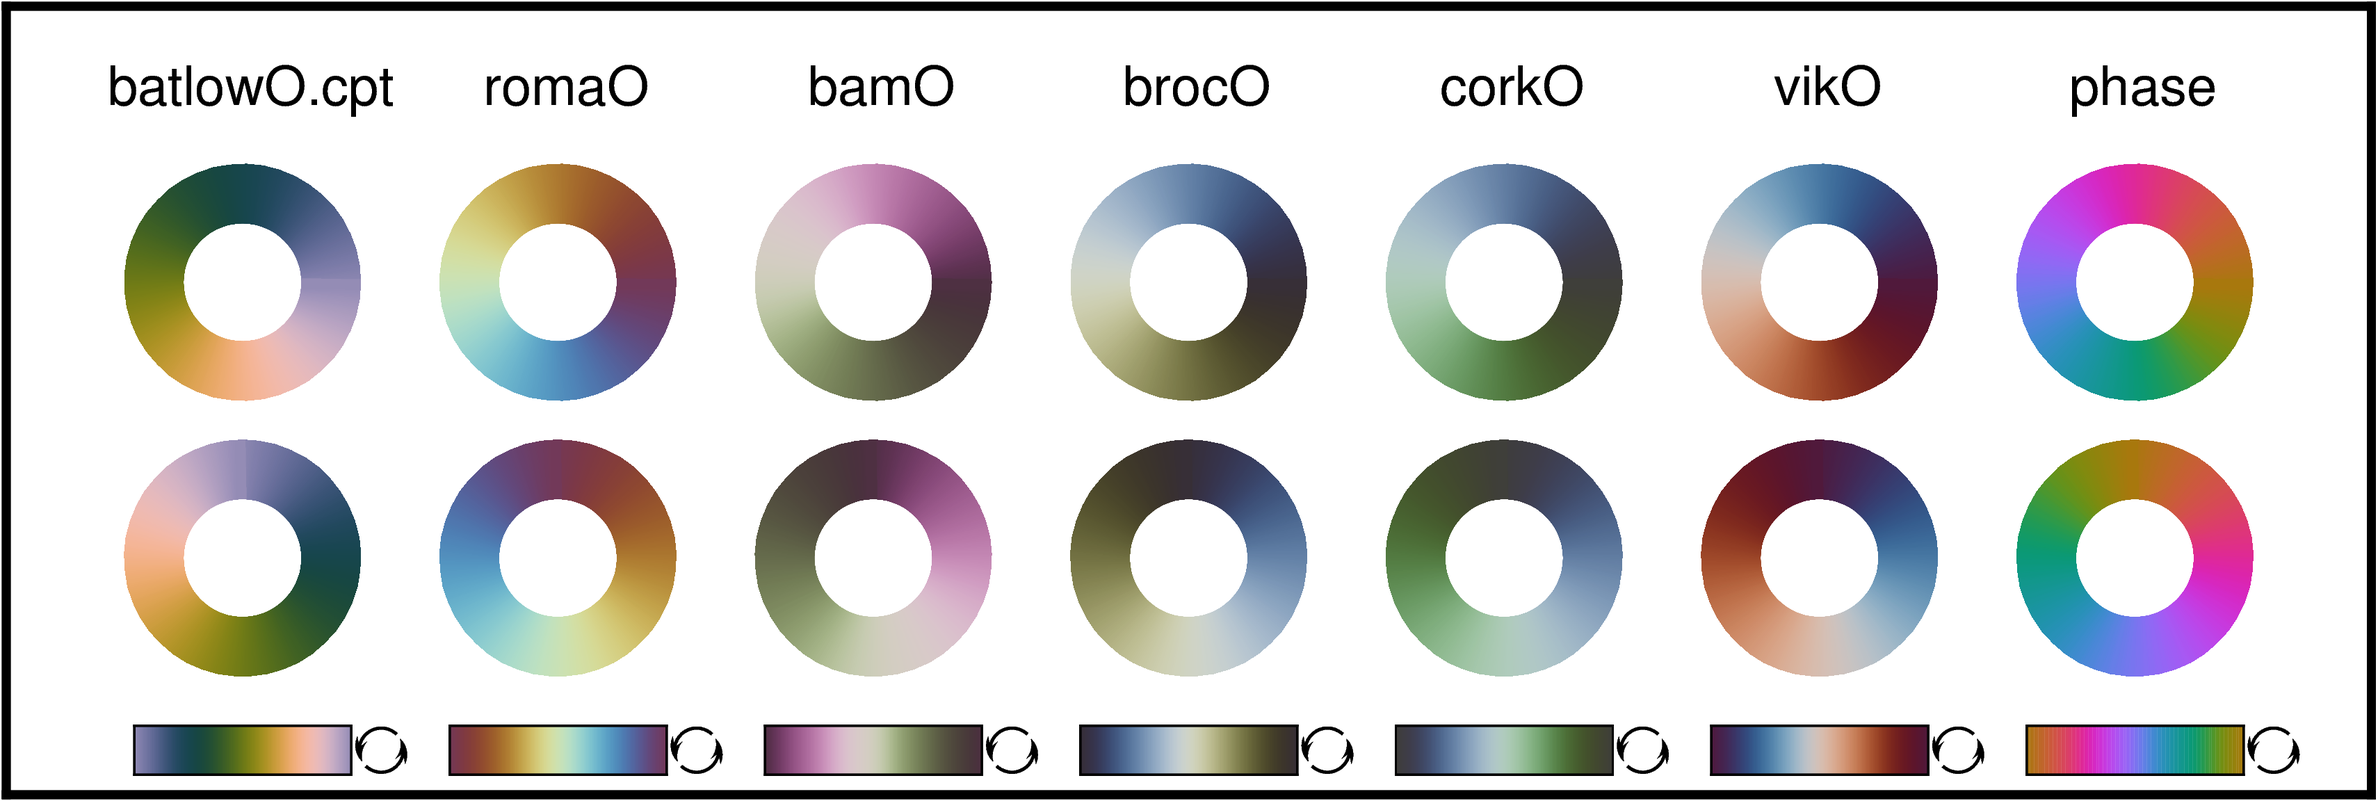
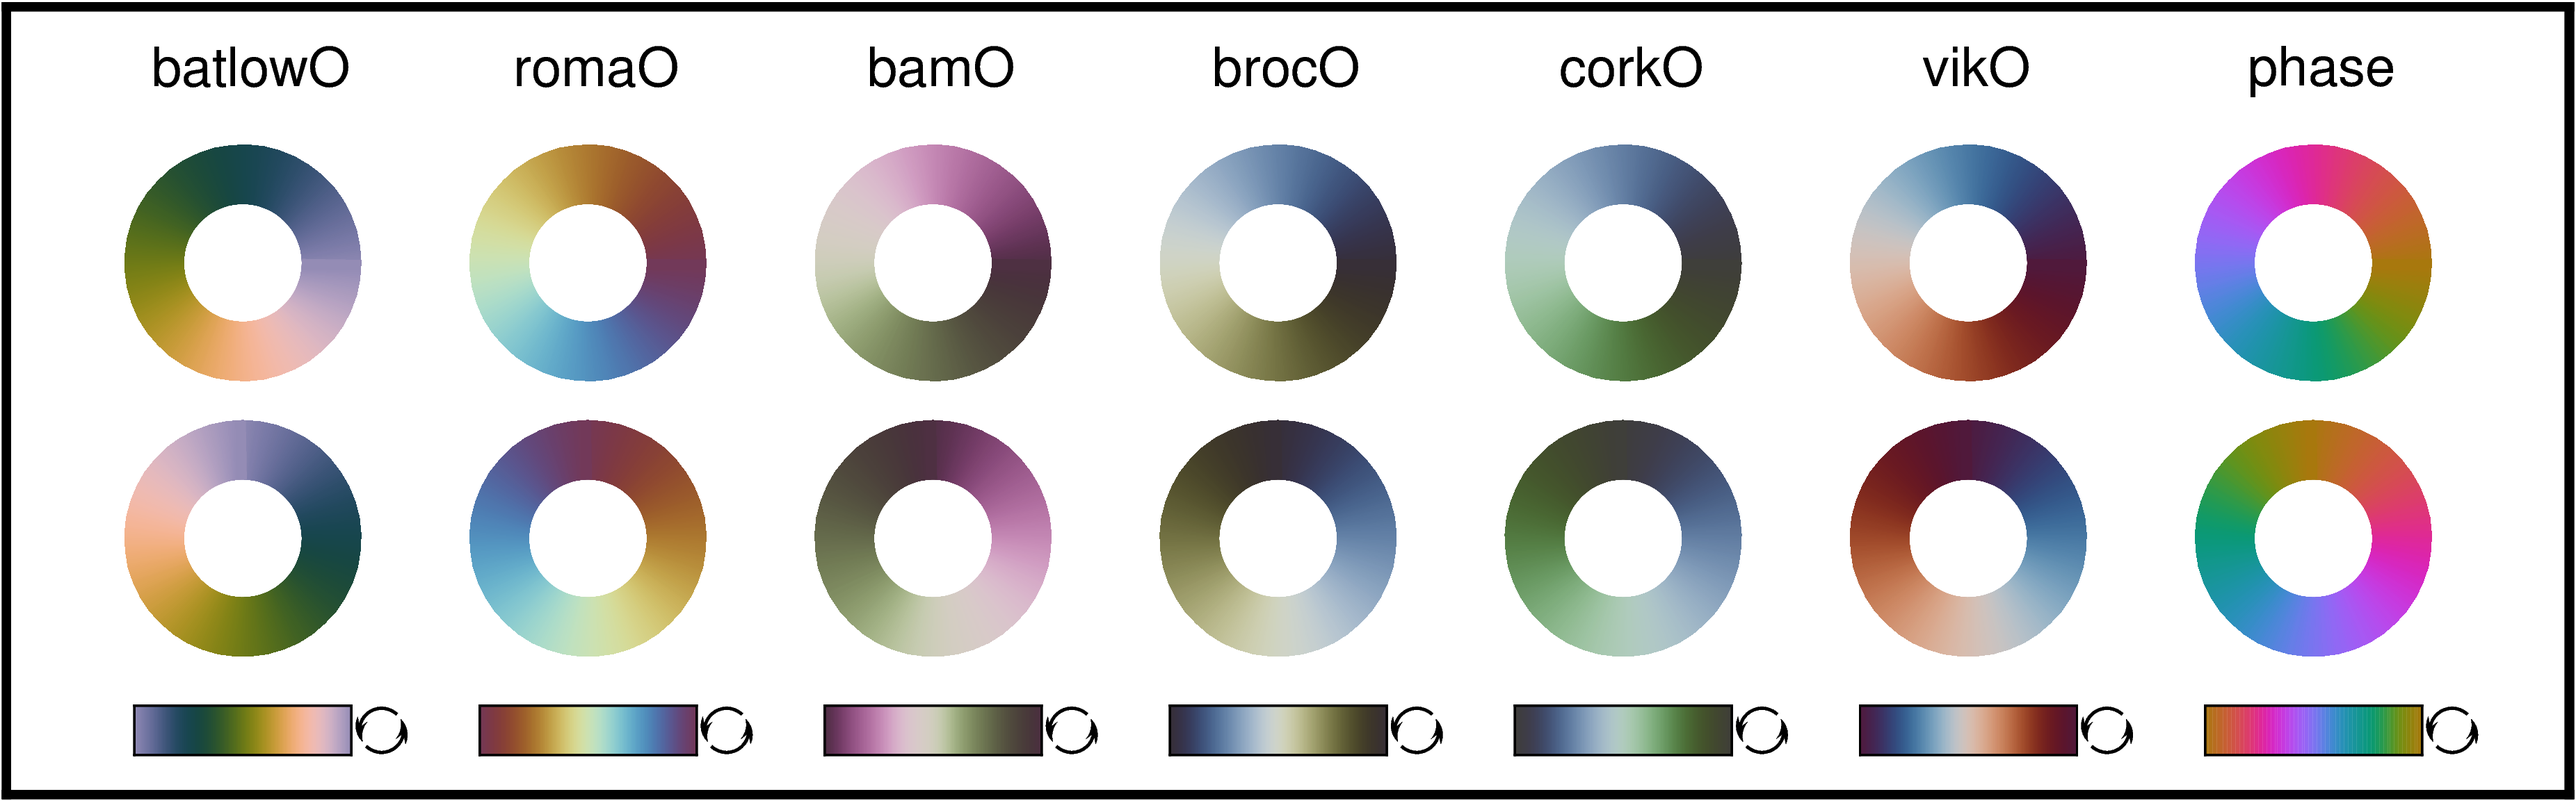
Adjust example plot

diff --git a/000_general_stuff/02_colorwheel/colorwheel_pygmt.py b/000_general_stuff/02_colorwheel/colorwheel_pygmt.py
@@ -7,6 +7,7 @@
 # - cmocean colormaps by Kristen M. Thyng: phase
 #   http://dx.doi.org/10.5670/oceanog.2016.66
 #   https://github.com/matplotlib/cmocean
+# 
 # >>> Be careful and check how measuring the angle is defined in your dataset <<<
 # Use the perspective parameter to take this into consideration
 # See also the example at the end of this script
@@ -107,7 +108,7 @@ def colorwheel(cmap, perspective, rho_min=1, rho_max=2.5, fig_instance=None):
 # Examples
 # -----------------------------------------------------------------------------
 fig = pygmt.Figure()
-fig.basemap(region=[-5, 5, -2, 2], projection="X12c/4c", frame=0)
+fig.basemap(region=[-5, 5, -2, 2], projection="X13c/4c", frame=0)
 
 fig.shift_origin(xshift="0.6c", yshift="2c")
 for cmap in ["batlowO.cpt", "romaO", "bamO", "brocO", "corkO", "vikO", "phase"]:
@@ -126,10 +127,12 @@ for cmap in ["batlowO.cpt", "romaO", "bamO", "brocO", "corkO", "vikO", "phase"]:
         rho_max=0.6,
         fig_instance=fig,
     )
-    fig.text(x=1, y=2.4, text=cmap, no_clip=True)
+    cmap_text = cmap
+    if cmap == "batlowO.cpt": cmap_text = "batlowO"
+    fig.text(x=1, y=2.4, text=cmap_text, no_clip=True)
     pygmt.makecpt(cmap=cmap, series=[0, 360], cyclic=True)
     fig.colorbar(cmap=True, position="jBC+o0c/-0.5c+w1.1c/0.25c+h", frame=0)
-    fig.shift_origin(xshift="1.6c", yshift="1.4c")
+    fig.shift_origin(xshift="1.75c", yshift="1.4c")
 
 fig.show()
 fig.savefig(fname="colorwheel_all_cmaps.png", dpi=720)
